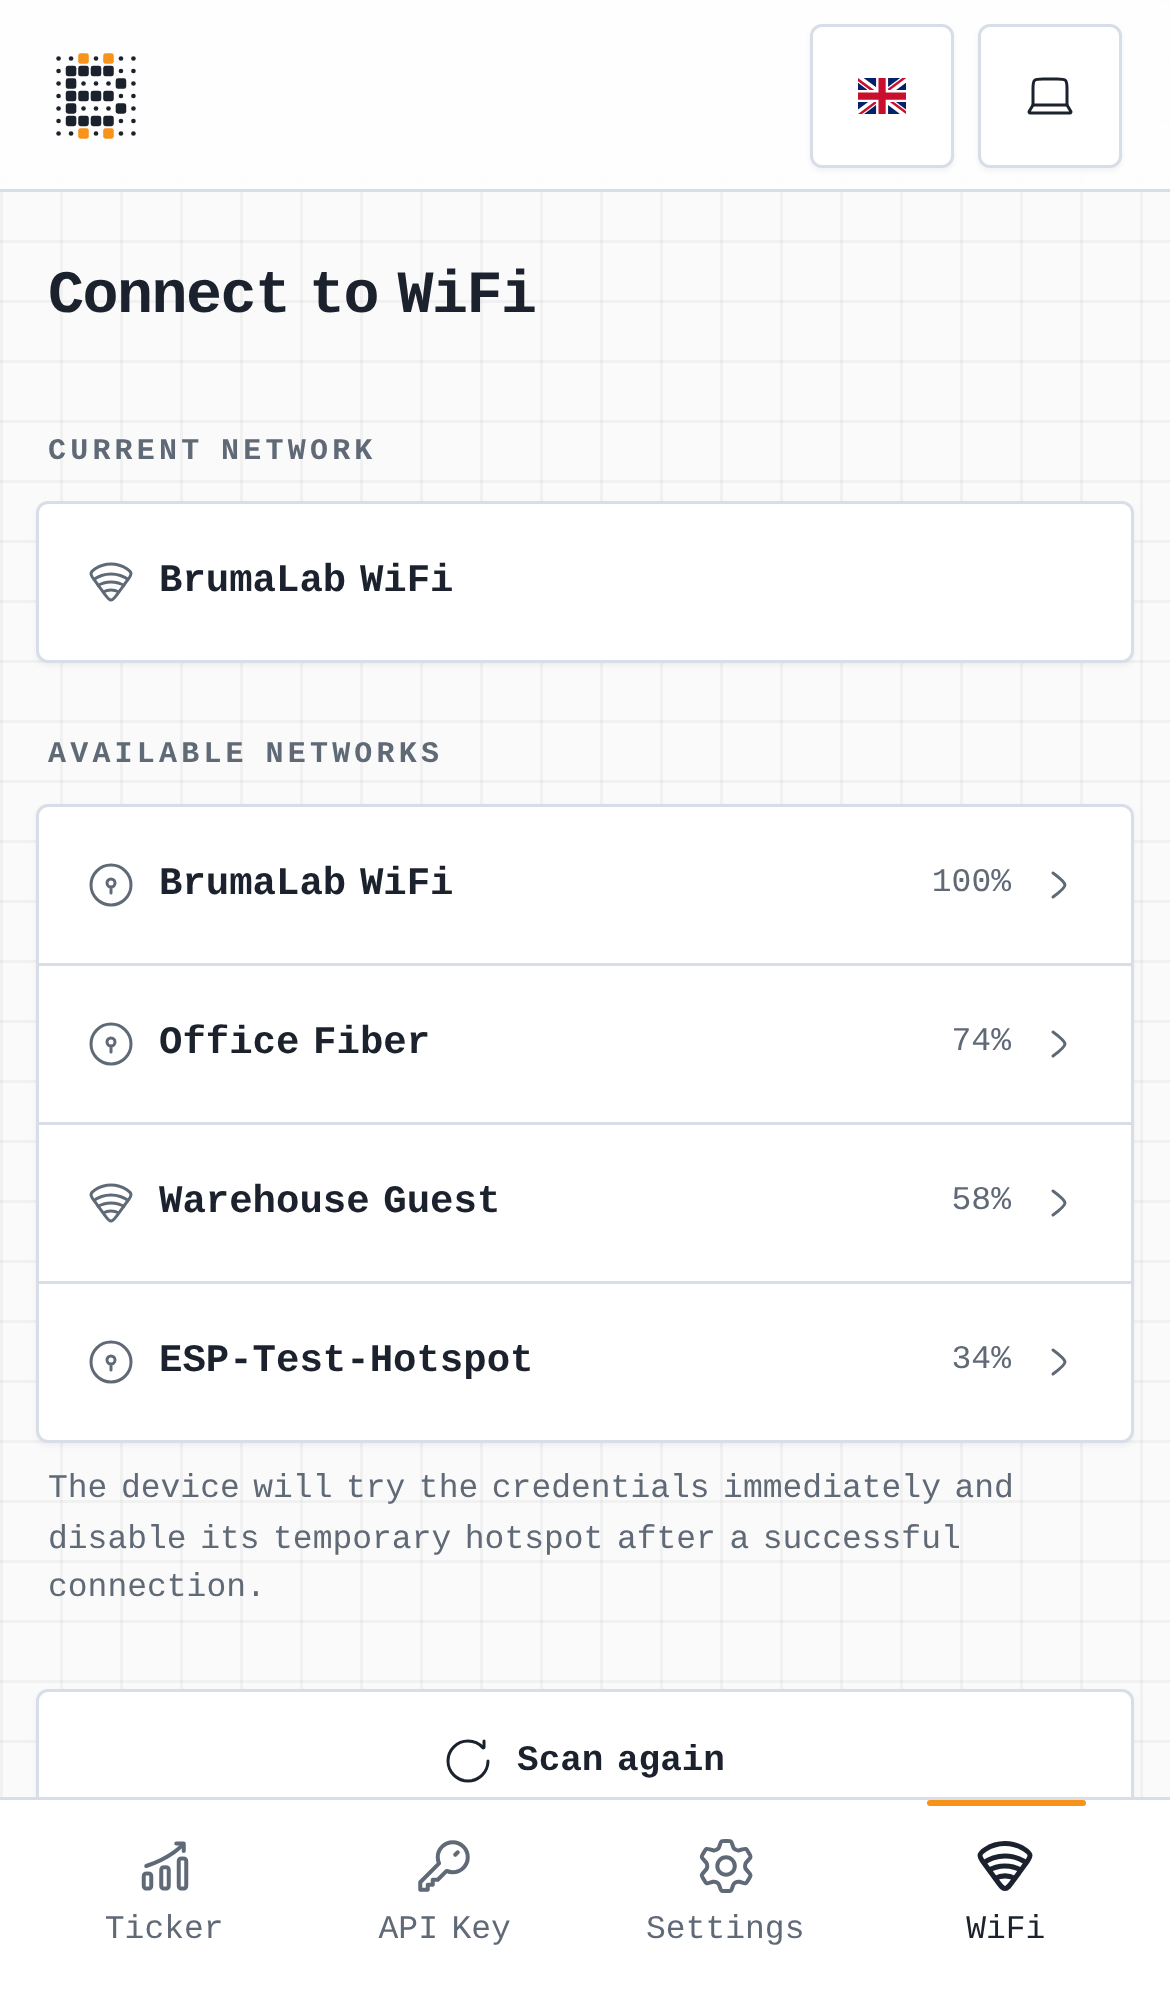
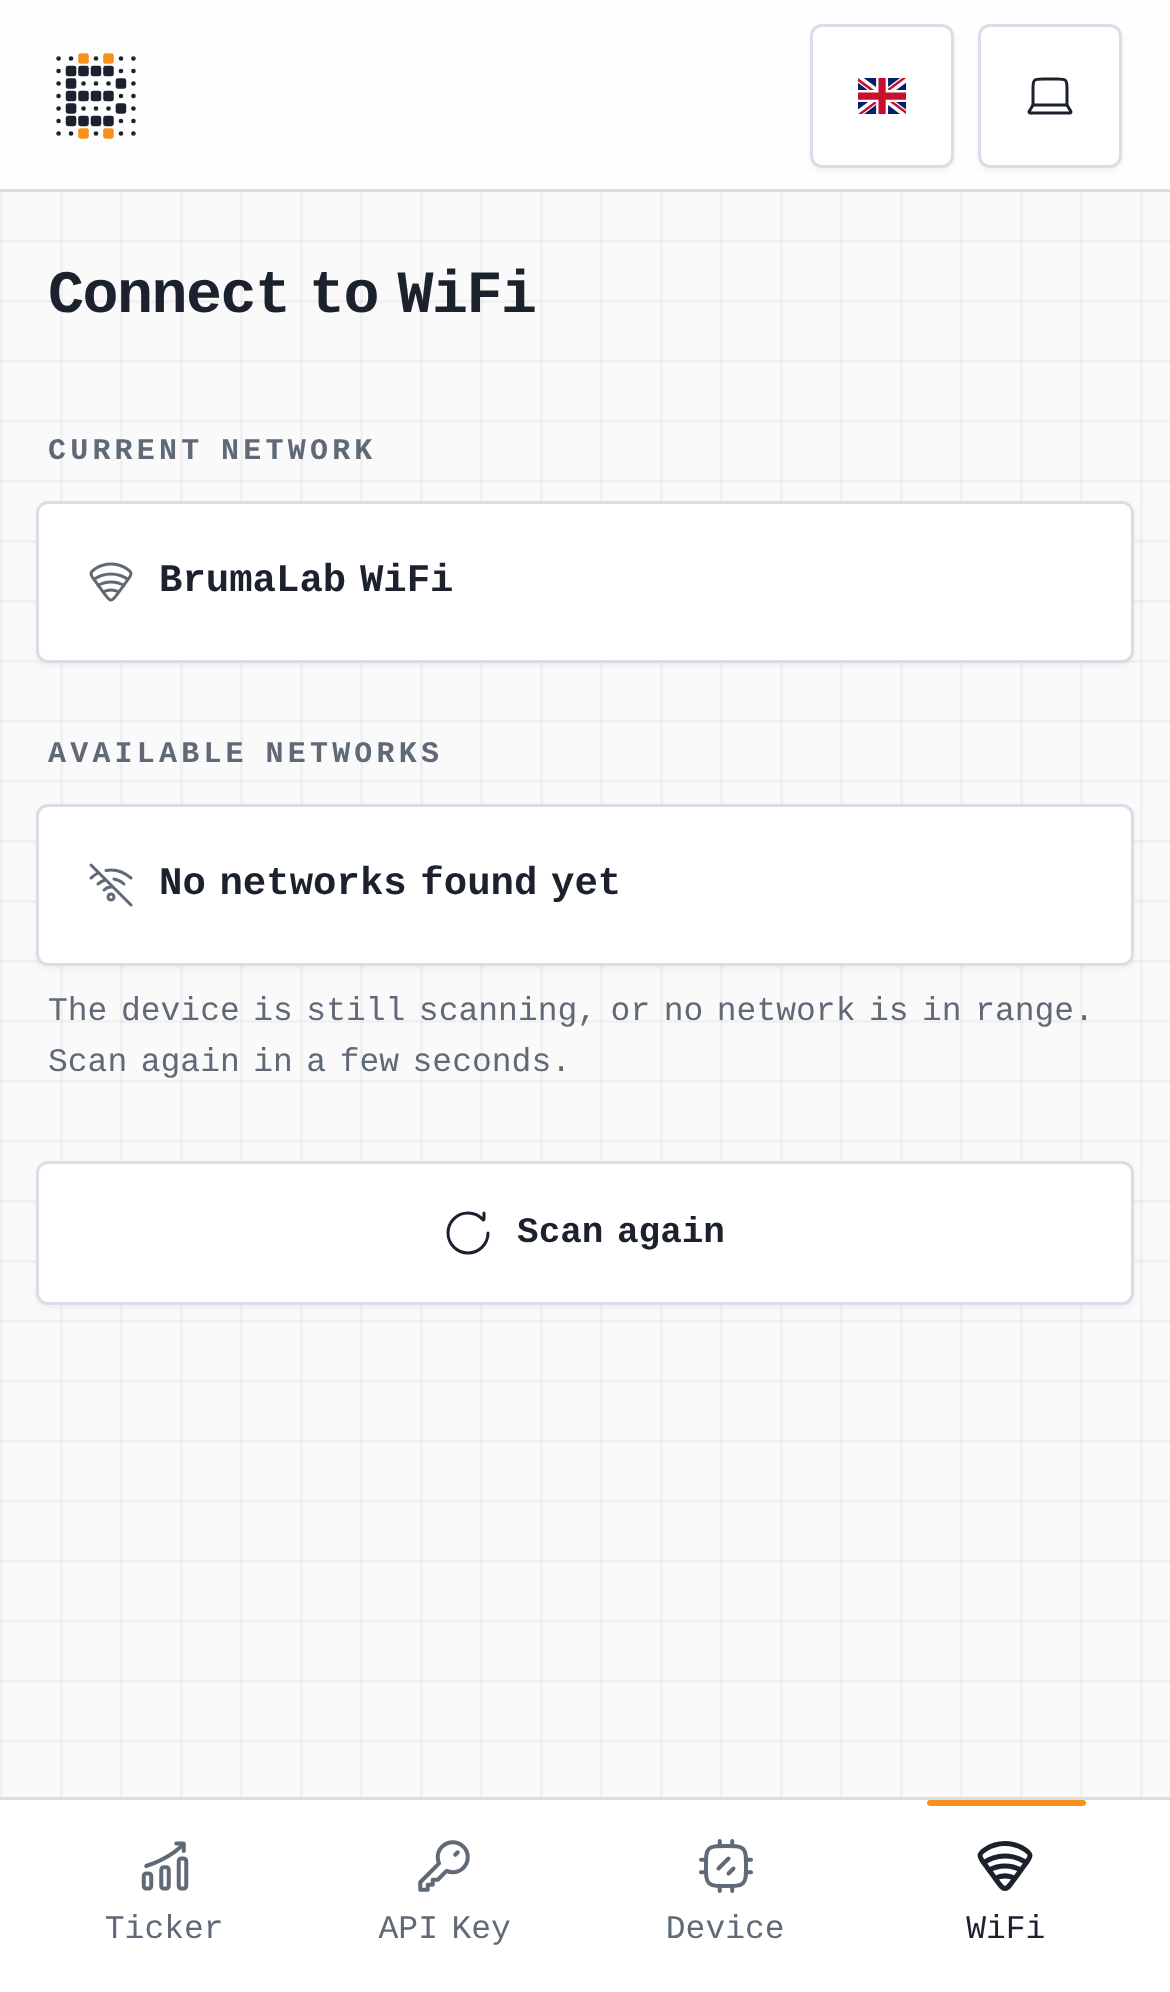
Web app: Settings becomes Device (/device), and the README's UI System matches the app
Nothing on that page is a setting: it is the device card of the layer, the
details of the device and its actions (restart, forget network). The README described components and a layout the app no longer has; the
screenshots show the new tabs.

Claude-Session: https://claude.ai/code/session_01BeyeazZAMMbtmmhRdZGEuo

diff --git a/webapp/tests/app/deviceConfig.test.js b/webapp/tests/app/deviceConfig.test.js
@@ -3,7 +3,7 @@ import { readBody } from 'h3';
 import { flushPromises } from '@vue/test-utils';
 import { mountSuspended, registerEndpoint } from '@nuxt/test-utils/runtime';
 import TickerPage from '~/pages/ticker.vue';
-import SettingsPage from '~/pages/settings.vue';
+import DevicePage from '~/pages/device.vue';
 import ApiKeyPage from '~/pages/api-key.vue';
 import { loadDeviceConfig } from '~/composables/useDeviceConfig.js';
 import { useGlobalStore } from '~/composables/stores/useGlobalStore.js';
@@ -96,7 +96,7 @@ beforeEach(() => {
     registerDeviceEndpoints();
 });
 
-// Loading the config: the settings page may only save what the device sent
+// Loading the config: the ticker page may only save what the device sent
 describe('loadDeviceConfig', () => {
     // A loaded config replaces the store defaults
     it('loads the settings of the device', async () => {
@@ -176,7 +176,7 @@ describe('ticker page', () => {
         expect(savedBodies[0]).toMatchObject({ currentPrice: true, marketCap: true, matrixIntensity: 12, scrollSpeed: 4, formatType: 'EU' });
     });
 
-    // The device card lives on the settings page, like in every OpenGizmo app
+    // The device card lives on the device page, like in every OpenGizmo app
     it('has no device card', async () => {
         await loadDeviceConfig();
         const wrapper = await mountSuspended(TickerPage);
@@ -185,12 +185,12 @@ describe('ticker page', () => {
     });
 });
 
-// Settings page: the device card of the layer, with the ticker's reset of the saved settings
-describe('settings page', () => {
+// Device page: the device card of the layer, with the ticker's reset of the saved settings
+describe('device page', () => {
     // The device rows come from the card of the gizmo-common layer, which reads GET /api/device
     it('shows the device card with the details of the device', async () => {
         await loadDeviceConfig();
-        const wrapper = await mountSuspended(SettingsPage);
+        const wrapper = await mountSuspended(DevicePage);
         await vi.waitFor(() => expect(wrapper.text()).toContain('v2026.11.04.1'));
         expect(wrapper.text()).toContain('1d 2h 3m');
         expect(wrapper.text()).toContain('192.168.1.42');
@@ -202,7 +202,7 @@ describe('settings page', () => {
     it('shows the device card even when the settings cannot be read', async () => {
         isConfigAvailable = false;
         await loadDeviceConfig().catch(() => {});
-        const wrapper = await mountSuspended(SettingsPage);
+        const wrapper = await mountSuspended(DevicePage);
         await vi.waitFor(() => expect(findButton(wrapper, 'Restart')).toBeDefined());
         expect(wrapper.text()).not.toContain('Reset saved settings'); // It needs the settings
     });
@@ -210,7 +210,7 @@ describe('settings page', () => {
     // The reset of the settings is the ticker's own action, in the last group with the other destructive ones of the card
     it('keeps the reset of the saved settings', async () => {
         await loadDeviceConfig();
-        const wrapper = await mountSuspended(SettingsPage);
+        const wrapper = await mountSuspended(DevicePage);
         await vi.waitFor(() => expect(wrapper.text()).toContain('Reset saved settings'));
 
         // Expect the group of actions to end with the two destructive rows
@@ -222,7 +222,7 @@ describe('settings page', () => {
     it('keeps the reset of the saved settings when the device details cannot be read', async () => {
         isDeviceAvailable = false;
         await loadDeviceConfig();
-        const wrapper = await mountSuspended(SettingsPage);
+        const wrapper = await mountSuspended(DevicePage);
         await vi.waitFor(() => expect(wrapper.text()).toContain('Try again'));
         expect(wrapper.text()).toContain('Reset saved settings');
     });
@@ -230,7 +230,7 @@ describe('settings page', () => {
     // The settings form is on the ticker page
     it('has no settings form', async () => {
         await loadDeviceConfig();
-        const wrapper = await mountSuspended(SettingsPage);
+        const wrapper = await mountSuspended(DevicePage);
         await vi.waitFor(() => expect(wrapper.text()).toContain('Reset saved settings'));
         expect(wrapper.find('form').exists()).toBe(false);
     });

diff --git a/webapp/app/pages/device.vue b/webapp/app/pages/device.vue
@@ -20,13 +20,13 @@ const resetSavedSettings = async () => {
         showMessageDialog({
             type: 'info',
             icon: InformationCircleIcon,
-            title: t('pages.settings.resetInfoTitle'),
-            message: result.message || t('pages.settings.resetInfoMessage'),
+            title: t('pages.device.resetInfoTitle'),
+            message: result.message || t('pages.device.resetInfoMessage'),
             closeText: t('common.close'),
             closeButtonIcon: Cancel01Icon
         });
     } catch (error) {
-        handleBackendErrors({ error, defaultMessage: t('pages.settings.resetError'), showDialog: true });
+        handleBackendErrors({ error, defaultMessage: t('pages.device.resetError'), showDialog: true });
     } finally {
         setBusy(false);
     }
@@ -36,9 +36,9 @@ const resetSavedSettings = async () => {
 const handleResetPress = () => {
     showConfirmDialog({
         icon: RefreshIcon,
-        title: t('pages.settings.resetConfirmTitle'),
-        message: t('pages.settings.resetConfirmMessage'),
-        confirmText: t('pages.settings.resetAction'),
+        title: t('pages.device.resetConfirmTitle'),
+        message: t('pages.device.resetConfirmMessage'),
+        confirmText: t('pages.device.resetAction'),
         cancelText: t('common.cancel'),
         confirmButtonType: 'primary',
         cancelButtonType: 'secondary',
@@ -55,11 +55,11 @@ definePageMeta({
 </script>
 
 <template>
-    <GizmoPage :title="t('pages.settings.title')">
+    <GizmoPage :title="t('pages.device.title')">
         <!-- Device info, network, restart and forget network (from the gizmo-common layer, it reads the device by itself). The reset of the saved settings, the ticker's own action, joins the destructive rows at the end -->
         <GizmoDeviceCard>
             <template v-if="globalStore.configLoaded" #danger-rows>
-                <ListRow :label="t('pages.settings.resetAction')" :icon="RefreshIcon" action danger @click="handleResetPress" />
+                <ListRow :label="t('pages.device.resetAction')" :icon="RefreshIcon" action danger @click="handleResetPress" />
             </template>
         </GizmoDeviceCard>
     </GizmoPage>

diff --git a/webapp/app/app.config.ts b/webapp/app/app.config.ts
@@ -1,6 +1,6 @@
 import ChartUpIcon from '@hugeicons/core-free-icons/ChartUpIcon';
+import CpuIcon from '@hugeicons/core-free-icons/CpuIcon';
 import Key01Icon from '@hugeicons/core-free-icons/Key01Icon';
-import Settings01Icon from '@hugeicons/core-free-icons/Settings01Icon';
 
 // Name, logo and pages of the app, read by the layout and the pages of the gizmo-common layer (the logo is the Gizmo Ticker one, whatever the coin)
 export default defineAppConfig({
@@ -18,7 +18,7 @@ export default defineAppConfig({
         nav: [
             { id: 'ticker', labelKey: 'nav.ticker.label', descriptionKey: 'nav.ticker.description', icon: ChartUpIcon, to: '/ticker' },
             { id: 'api-key', labelKey: 'nav.apiKey.label', descriptionKey: 'nav.apiKey.description', icon: Key01Icon, to: '/api-key' },
-            { id: 'settings', labelKey: 'nav.settings.label', descriptionKey: 'nav.settings.description', icon: Settings01Icon, to: '/settings' },
+            { id: 'device', labelKey: 'nav.device.label', descriptionKey: 'nav.device.description', icon: CpuIcon, to: '/device' },
             'wifi'
         ]
     }

diff --git a/webapp/app/composables/useDeviceConfig.js b/webapp/app/composables/useDeviceConfig.js
@@ -2,7 +2,7 @@ import { getConfig } from '~/composables/useDeviceApi.js';
 import { setCryptoCoin } from '~/composables/useUtils.js';
 import { useGlobalStore } from '~/composables/stores/useGlobalStore.js';
 
-// Load the device config into the store, and remember a failure (so the settings page never saves the store defaults)
+// Load the device config into the store, and remember a failure (so the ticker page never saves the store defaults)
 export const loadDeviceConfig = async () => {
     const globalStore = useGlobalStore();
 
@@ -21,7 +21,7 @@ export const loadDeviceConfig = async () => {
         // Apply the accent of the coin set on the device
         setCryptoCoin(globalStore.value.config.cryptoCoin || 'bitcoin');
     } catch (error) {
-        // Remember the failure, so the settings page offers to try again
+        // Remember the failure, so the ticker page offers to try again
         globalStore.value.configLoadFailed = true;
         throw error;
     }

diff --git a/webapp/app/composables/stores/useGlobalStore.js b/webapp/app/composables/stores/useGlobalStore.js
@@ -20,6 +20,6 @@ export const useGlobalStore = () => useState('global', () => ({
     // Flag to track whether the config payload has been fetched at least once
     configLoaded: false,
 
-    // Flag set when the config couldn't be fetched (the settings page then offers to try again)
+    // Flag set when the config couldn't be fetched (the ticker page then offers to try again)
     configLoadFailed: false
 }));

diff --git a/webapp/tests/app/layerPages.test.js b/webapp/tests/app/layerPages.test.js
@@ -25,7 +25,7 @@ describe('pages of the layer', () => {
         expect(items.map(item => [item.id, item.label, item.to])).toEqual([
             ['ticker', 'Ticker', '/ticker'],
             ['api-key', 'API Key', '/api-key'],
-            ['settings', 'Settings', '/settings'],
+            ['device', 'Device', '/device'],
             ['wifi', 'WiFi', '/wifi']
         ]);
     });

diff --git a/webapp/nuxt.config.ts b/webapp/nuxt.config.ts
@@ -71,7 +71,7 @@ export default defineNuxtConfig({
                 '/',
                 '/ticker',
                 '/api-key',
-                '/settings'
+                '/device'
             ]
         }
     },

diff --git a/README.md b/README.md
@@ -269,13 +269,13 @@ The Nuxt app provides the browser-based device configuration interface.
 
 #### 🎨 UI System
 
-The web app now splits UI responsibilities between the shared package and the app itself.
+The web app splits UI responsibilities between the shared packages and the app itself.
 
 - `@brumaombra/ui-vintage` provides the reusable UI system.
-- `webapp/app/components/` contains app-specific pieces such as branding, crypto logos, language/theme selectors, and page intro wrappers.
-- `webapp/app/layouts/private.vue` composes the shared `DashboardShell` with app-defined navigation, branding, and toolbar controls.
-- `webapp/app/assets/main.css` imports the shared library stylesheet and then layers the app-specific crypto accent tokens on top.
-- `webapp/app/composables/useUtils.js` and `webapp/app/composables/stores/useGlobalStore.js` keep theme mode, crypto coin selection, and device-backed UI state local to the app.
+- The gizmo-common web layer provides the dashboard layout, the Wi-Fi pages, the device card, and the mock device for the Wi-Fi and device routes.
+- `webapp/app/pages/ticker.vue` is the ticker page (what the matrix shows), `webapp/app/pages/api-key.vue` the API key page, `webapp/app/pages/device.vue` holds the device card, and `webapp/app/app.config.ts` sets the name, logo and navigation for the layer.
+- `webapp/app/assets/css/main.css` imports the shared library and layer stylesheets, then layers the crypto accent colors on top.
+- `webapp/app/composables/useUtils.js` and `webapp/app/composables/stores/useGlobalStore.js` keep the crypto coin selection and the device-backed state local to the app.
 
 <a id="configuration"></a>
 ## ⚙ Configuration
